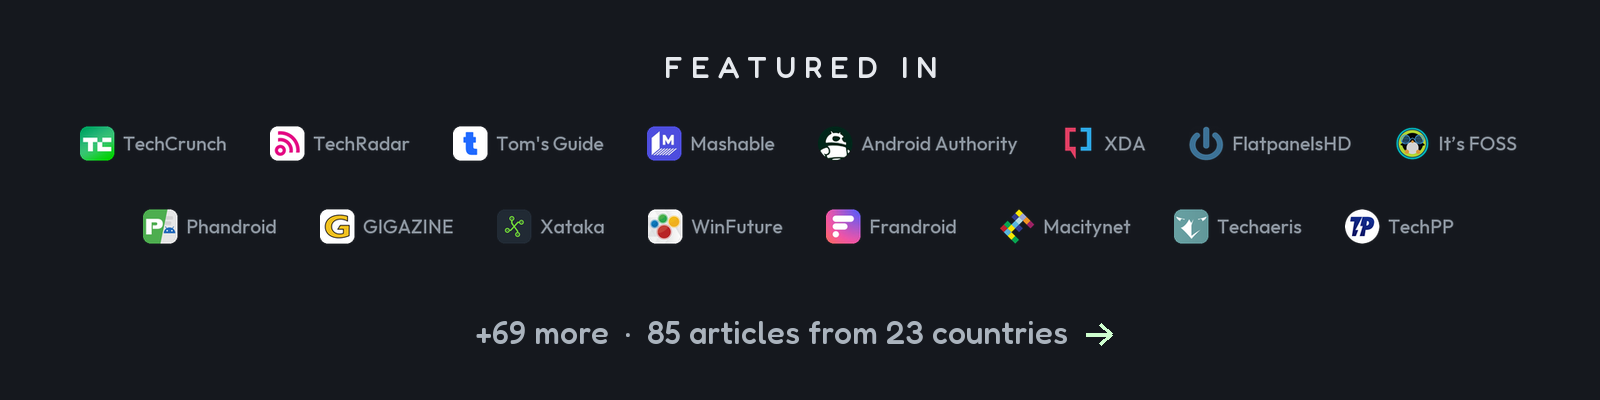
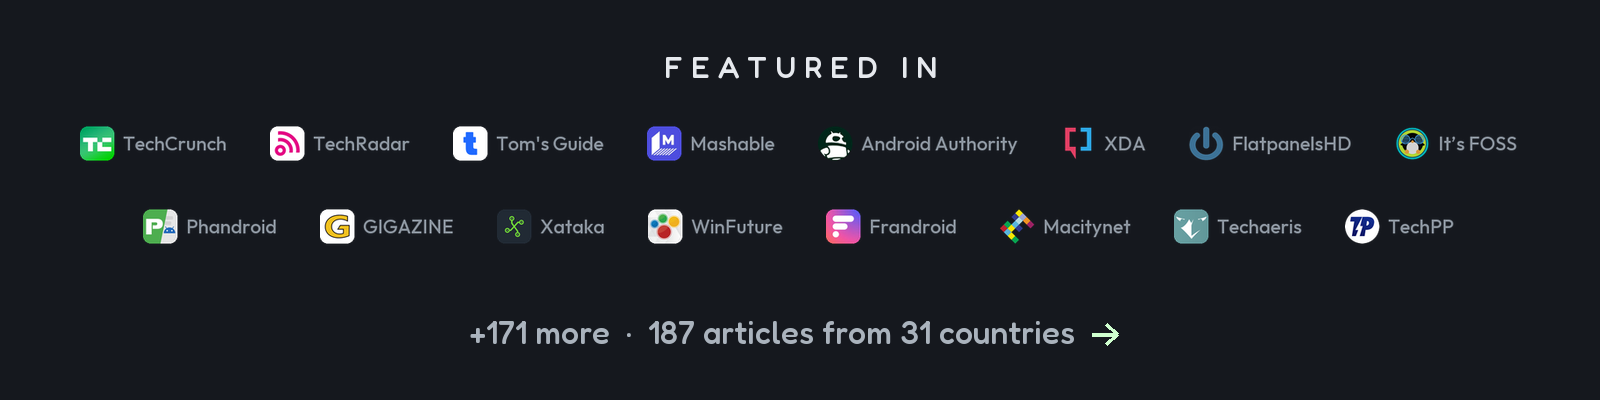
Press: 104 new articles (187 from 31 countries) and a Videos section
A sweep of Google News in 26 locales, GDELT, Bing, Hacker News, Reddit,
dev.to, YouTube and the sites Gathin named, judged page by page: 104
articles not on the list yet, among them Gizmodo, PCWorld, 404 Media,
ExtremeTech, 01net, Clubic, CHIP, Exame, Habr, iXBT and Punto Informatico.
New country sections: Netherlands, Poland, Russia, Belarus, Turkey,
Jordan, South Korea and Australia.

The two YouTube rows move out of the article list into a new Videos
section at the end of PRESS.md: 40 videos that name the project, with
views as of 23 Oct. The press-count test stops at that section.

README alt text, tools/readme_featured.py, docs/featured.png and
docs/card.jpg updated to 187 articles from 31 countries.

Changed region(s): [[0.4062, 0.78, 0.7188, 0.87], [0.2812, 0.81, 0.375, 0.87]]

diff --git a/tools/readme_featured.py b/tools/readme_featured.py
@@ -7,7 +7,7 @@ from PIL import Image, ImageDraw, ImageFont
 FONT, OUT = sys.argv[1], sys.argv[2]
 LOGOS = ["techcrunch", "techradar", "tomsguide", "mashable", "androidauthority", "xda", "flatpanelshd", "itsfoss",
          "phandroid", "gigazine", "xataka", "winfuture", "frandroid", "macitynet", "techaeris", "techpp"]
-MORE = "+69 more  ·  85 articles from 23 countries"
+MORE = "+171 more  ·  187 articles from 31 countries"
 W, LH, GAP, ROWGAP, PAD = 1600, 54, 40, 36, 80
 def f(size, wt):
     x = ImageFont.truetype(FONT, size); x.set_variation_by_axes([wt]); return x

diff --git a/tests/test_press_counts.py b/tests/test_press_counts.py
@@ -25,9 +25,11 @@ TOC_ENTRY = re.compile(r"\[([^\]]+)\]\(#[^)]+\)&nbsp;(\d+)")
 
 
 def sections():
-    """(heading, rows) for every '## ' section, in file order."""
+    """(heading, rows) for every article section, in file order. The Videos section at the end is not articles."""
     out, current = [], None
     for line in PRESS.read_text(encoding="utf-8").split("\n"):
+        if line.strip() == "## Videos":
+            break
         if line.startswith("## "):
             current = (line[3:].strip(), [])
             out.append(current)

diff --git a/docs/PRESS.md b/docs/PRESS.md
@@ -1,10 +1,10 @@
 # CleanYourTV in the press
 
-Every article about CleanYourTV (called tv-vibehack until 19 October 2026) that we could open and check: **85 articles**, 56 of them from outlets in 23 countries, 5 from Spanish-language sites in Latin America and 24 from newsletters, blogs and AI news sites. Headlines are in the language they were published in. Syndicated copies and auto-generated listings are left out.
+Every article about CleanYourTV (called tv-vibehack until 19 October 2026) that we could open and check: **187 articles**, 152 of them from outlets in 31 countries, 9 from Spanish-language sites in Latin America and 26 from newsletters, blogs and AI news sites. Headlines are in the language they were published in. Syndicated copies and auto-generated listings are left out. [40 videos](#videos) follow the articles.
 
 Wrote about it and not here? Open an issue or a pull request with the link.
 
-[United States](#united-states)&nbsp;11 · [United Kingdom](#united-kingdom)&nbsp;2 · [India](#india)&nbsp;2 · [Denmark](#denmark)&nbsp;1 · [Japan](#japan)&nbsp;2 · [Bangladesh](#bangladesh)&nbsp;1 · [United Arab Emirates](#united-arab-emirates)&nbsp;1 · [France](#france)&nbsp;3 · [Germany](#germany)&nbsp;3 · [Spain](#spain)&nbsp;2 · [Italy](#italy)&nbsp;2 · [Norway](#norway)&nbsp;1 · [Portugal](#portugal)&nbsp;1 · [Czechia](#czechia)&nbsp;1 · [Ukraine](#ukraine)&nbsp;1 · [Greece](#greece)&nbsp;1 · [Egypt](#egypt)&nbsp;1 · [Brazil](#brazil)&nbsp;3 · [Latin America (Spanish-language)](#latin-america-spanish-language)&nbsp;5 · [China](#china)&nbsp;7 · [Taiwan](#taiwan)&nbsp;1 · [Indonesia](#indonesia)&nbsp;6 · [Thailand](#thailand)&nbsp;1 · [Vietnam](#vietnam)&nbsp;2 · [Online (newsletters, blogs, AI news)](#online-newsletters-blogs-ai-news)&nbsp;24
+[United States](#united-states)&nbsp;18 · [United Kingdom](#united-kingdom)&nbsp;3 · [India](#india)&nbsp;4 · [Denmark](#denmark)&nbsp;1 · [Japan](#japan)&nbsp;2 · [Bangladesh](#bangladesh)&nbsp;1 · [United Arab Emirates](#united-arab-emirates)&nbsp;1 · [France](#france)&nbsp;12 · [Germany](#germany)&nbsp;5 · [Spain](#spain)&nbsp;6 · [Italy](#italy)&nbsp;14 · [Norway](#norway)&nbsp;1 · [Portugal](#portugal)&nbsp;4 · [Czechia](#czechia)&nbsp;1 · [Ukraine](#ukraine)&nbsp;2 · [Greece](#greece)&nbsp;1 · [Egypt](#egypt)&nbsp;5 · [Brazil](#brazil)&nbsp;11 · [Latin America (Spanish-language)](#latin-america-spanish-language)&nbsp;9 · [China](#china)&nbsp;9 · [Taiwan](#taiwan)&nbsp;4 · [Indonesia](#indonesia)&nbsp;12 · [Thailand](#thailand)&nbsp;3 · [Vietnam](#vietnam)&nbsp;4 · [Netherlands](#netherlands)&nbsp;3 · [Poland](#poland)&nbsp;5 · [Russia](#russia)&nbsp;8 · [Belarus](#belarus)&nbsp;2 · [Turkey](#turkey)&nbsp;3 · [Jordan](#jordan)&nbsp;1 · [South Korea](#south-korea)&nbsp;4 · [Australia](#australia)&nbsp;2 · [Online (newsletters, blogs, AI news)](#online-newsletters-blogs-ai-news)&nbsp;26
 
 ## United States
 
@@ -21,6 +21,13 @@ Wrote about it and not here? Open an issue or a pull request with the link.
 | Gadget Review (on Yahoo Tech) | [Developers Are Using AI to Strip Ads and Tracking From Smart TVs](https://tech.yahoo.com/ai/meta-ai/articles/developers-using-ai-strip-ads-185856468.html) | 19&nbsp;Oct |
 | HighTechDad | [Tech Brief: People Are Using AI Coding Agents to Strip Ads and Tracking Off Their Smart TVs](https://www.hightechdad.com/tech-briefs/people-are-using-ai-coding-agents-to-strip-ads-and-tracking-off-their-smart-tvs/) | 20&nbsp;Oct |
 | Yahoo Tech | [Sick of seeing ads and clutter on your smart TV? The internet says AI can fix that.](https://tech.yahoo.com/ai/article/sick-of-seeing-ads-and-clutter-on-your-smart-tv-the-internet-says-ai-can-fix-that-181417392.html) | 21&nbsp;Oct |
+| GovTech | [Are people using AI to dumb down their smart TVs?](https://www.govtech.com/question-of-the-day/are-people-using-ai-to-dumb-down-their-smart-tvs) | 19&nbsp;Oct |
+| 404 Media | ['Reverse-Engineer Anything' Is the New Wild West of AI](https://www.404media.co/reverse-engineer-anything-is-the-new-wild-west-of-ai/) | 20&nbsp;Oct |
+| Gizmodo | [People Using AI to Make Smart TVs Dumb Again Is the Most 2026 Thing Ever](https://gizmodo.com/people-using-ai-to-make-smart-tvs-dumb-again-is-the-most-2026-thing-ever-2000828213) | 20&nbsp;Oct |
+| Parameter | [AI Coding Tool Helps Thousands Strip Advertising and Surveillance From Android TVs](https://parameter.io/ai-coding-tool-helps-thousands-strip-advertising-and-surveillance-from-android-tvs/) | 21&nbsp;Oct |
+| PCWorld | [Please don't use AI hacks to debloat your TV](https://www.pcworld.com/article/3266473/please-dont-use-ai-hacks-to-debloat-your-tv.html) | 22&nbsp;Oct |
+| ExtremeTech | [Developers Are Dumbing Down Their Smart TVs](https://www.extremetech.com/electronics/developers-are-dumbing-down-their-smart-tvs) | 21&nbsp;Oct |
+| AdExchanger | [So Begins ChatGPT’s Endless Ad Iterations; YouTube Affiliates With AliExpress](https://www.adexchanger.com/daily-news-roundup/tuesday-20102026/) | 20&nbsp;Oct |
 
 ## United Kingdom
 
@@ -28,6 +35,7 @@ Wrote about it and not here? Open an issue or a pull request with the link.
 | --- | --- | --- |
 | TechRadar | [‘Your TV should do what you paid for’: People are so sick of ads, trackers and bloat in their smart TVs that they're using AI to vibe code them away](https://www.techradar.com/entertainment/streaming/your-tv-should-do-what-you-paid-for-people-are-vibe-coding-apps-to-banish-ads-from-their-smart-tvs-and-android-tv-and-its-catching-on) | 20&nbsp;Oct |
 | Tech Times | [Man Asks AI with a Simple Prompt 'Can You Hack This?' to Fix His TV: Now Everyone Wants to Copy Him](https://www.techtimes.co.uk/ai-smart-tv-bloatware-performance-fix-1809233) | 19&nbsp;Oct |
+| Tech Times | [Owners Are Using AI to Bring Abandoned Smart Devices Back to Life and Strip Out Ads](https://www.techtimes.co.uk/ai-tools-remove-smart-tv-ads-bloatware-1809318) | 22&nbsp;Oct |
 
 ## India
 
@@ -35,6 +43,8 @@ Wrote about it and not here? Open an issue or a pull request with the link.
 | --- | --- | --- |
 | It's FOSS | [People Are Using AI to Get Rid of Smart TV Ads and Make Their TVs Faster](https://itsfoss.com/news/debloat-smart-tv/) | 19&nbsp;Oct |
 | TechPP | [How I Made My Android TV Faster and Ad-Free Using Claude Code](https://techpp.com/2026/10/18/speed-up-android-tv-claude-code/) | 18&nbsp;Oct |
+| SSBCrack News | [DIY Hacks Allow Consumers to "Vibe-Code" Their Smart TVs, Eliminating Ads and Bloatware](https://news.ssbcrack.com/diy-hacks-allow-consumers-to-vibe-code-their-smart-tvs-eliminating-ads-and-bloatware/) | 19&nbsp;Oct |
+| Analytics Insight | [How AI Tools Can Make Old Smart TVs Faster](https://www.analyticsinsight.net/ampstories/artificial-intelligence/how-ai-tools-can-make-old-smart-tvs-faster) | 21&nbsp;Oct |
 
 ## Denmark
 
@@ -68,6 +78,15 @@ Wrote about it and not here? Open an issue or a pull request with the link.
 | Frandroid | [Fini la lenteur et les pubs : j’ai redonné une seconde jeunesse à ma Google TV en 10 minutes](https://www.frandroid.com/android/google-tv/3290159_google-tv-lent-et-envahi-par-les-pubs-le-projet-tv-vibehack-corrige-tout-ca-grace-a-lia-jai-tente-lexperience) | 18&nbsp;Oct |
 | Les Joies du Code | [Après l'imprimante et le Wi-Fi, des devs lâchent Claude Code sur leur télé pour virer les pubs](https://lesjoiesducode.fr/retirer-pub-android-tv-claude-code) | 20&nbsp;Oct |
 | Xboxygen | [Sa TV Xiaomi affichait des pubs partout : il donne son modèle à Claude Code, qui refait toute l'interface](https://www.xboxygen.com/News/371393-sa-tv-xiaomi-affichait-des-pubs-partout-il-donne-son-modele-a-claude-code-qui-refait-toute-linterface) | 19&nbsp;Oct |
+| Clubic | [Votre Smart TV est devenue un panneau publicitaire ? Des utilisateurs demandent à l'IA de faire le ménage](https://www.clubic.com/actualite-635203-votre-smart-tv-est-devenue-un-panneau-publicitaire-des-utilisateurs-demandent-a-l-ia-de-faire-le-menage.html) | 21&nbsp;Oct |
+| Frandroid | [Finies les pubs et la lenteur sur Samsung et LG : l'IA débride également webOS et Tizen](https://www.frandroid.com/produits-android/tv-connectee-produits/3291785_apres-google-tv-les-tv-samsung-et-lg-se-font-debrider-a-laide-de-lia-un-vent-de-liberte-qui-nest-pas-sans-risques-pour-la-securite) | 20&nbsp;Oct |
+| Univers Freebox | [Une nouvelle tendance émerge : pirater sa propre Smart TV avec de l'IA](https://www.universfreebox.com/article/598607/une-nouvelle-tendance-emerge-pirater-sa-propre-smart-tv-avec-de-lia) | 20&nbsp;Oct |
+| Brief IA | [Des agents IA retirent les pubs des smart TVs et fragilisent leur modèle](https://www.briefia.fr/blog/pourquoi-ia-transformer-publicite-smart-tvs) | 19&nbsp;Oct |
+| Generation-NT | [L'IA aide certains utilisateurs à supprimer la publicité de leur téléviseur connecté](https://www.generation-nt.com/actualites/utilisateurs-nettoient-televiseurs-connectes-ia-2083105) | 21&nbsp;Oct |
+| 01net | [Au revoir les pubs et les lenteurs sur votre TV : comment l'IA peut faire le ménager en quelques minutes](https://www.01net.com/actualites/au-revoir-les-pubs-et-les-lenteurs-sur-votre-tv-comment-lia-peut-faire-le-menage-en-quelques-minutes.html) | 20&nbsp;Oct |
+| Charles Tech | [Leur TV était intelligente, ils utilisent l'IA pour la rendre bête](https://charlestech.fr/tv-etait-intelligente-ils-utilisent-l-ia-rendre-bete) | 20&nbsp;Oct |
+| MCE TV | [Google TV : il supprime pubs et lenteur de son téléviseur en 10 minutes grâce à l'IA](https://mcetv.ouest-france.fr/2026/google-tv-supprimer-pubs-lenteur-ia/) | 20&nbsp;Oct |
+| Brief IA | [IA contre pubs : des hacks allègent les smart TVs](https://www.briefia.fr/article/ia-contre-pubs-des-hacks-allegent-les-smart-tvs) | 19&nbsp;Oct |
 
 ## Germany
 
@@ -76,6 +95,8 @@ Wrote about it and not here? Open an issue or a pull request with the link.
 | WinFuture | [KIs machen Smart-TVs dumm, um Werbung und Tracking loszuwerden](https://winfuture.de/news,162070.html) | 20&nbsp;Oct |
 | Clauding.de | [dumbtv and cleanyourtv: People Are Stripping Their TVs With Claude Code](https://clauding.de/en/posts/smart-tv-entruempeln-claude-code/) | 20&nbsp;Oct |
 | Bild | [Smart-TV: Warum Nutzer ihre Fernseher mit KI verändern](https://www.bild.de/leben-wissen/digital/smart-tv-warum-nutzer-ihre-fernseher-mit-ki-veraendern-6ad89038842f9bd88130aa9e) | 21&nbsp;Oct |
+| CHIP | [KI-Tools sollen Smart-TVs von Werbung und Tracking befreien](https://www.chip.de/news/tv-streaming-sound/ki-tools-sollen-smart-tvs-von-werbung-und-tracking-befreien_0355ef2d-6c6a-403d-81d9-c9d6e85d1cdc.html) | 22&nbsp;Oct |
+| 4K Filme | [Nutzer befreit Smart-TV mit KI von Werbung und wird dafür gefeiert](https://www.4kfilme.de/nutzer-befreit-smart-tv-mit-ki-von-werbund-und-wird-gefeiert/) | 21&nbsp;Oct |
 
 ## Spain
 
@@ -83,6 +104,10 @@ Wrote about it and not here? Open an issue or a pull request with the link.
 | --- | --- | --- |
 | Xataka | [La última sensación viral de la IA es eliminar anuncios y bloatware de las Smart TV: he "tontificado" mi Chromecast y es maravilloso](https://www.xataka.com/televisores/ultima-sensacion-viral-ia-eliminar-anuncios-bloatware-smart-tv-he-tontificado-mi-chromecast-maravilloso) | 20&nbsp;Oct |
 | Xataka Hogar | [Las interfaces de las smart TV se han convertido en un tablón de anuncios, así que los usuarios están buscando cómo escapar de ellas](https://hogar.xataka.com/televisores/interfaces-smart-tv-se-han-convertido-tablon-anuncios-asi-que-usuarios-estan-buscando-como-escapar-ellas) | 19&nbsp;Oct |
+| Androidphoria | [CleanYourTV: elimina anuncios y acelera tu Android TV con IA](https://androidphoria.com/aplicaciones/cleanyourtv) | 20&nbsp;Oct |
+| ZonaDock | [Claude Code contra los anuncios de las Smart TV y los riesgos de recuperar el control](https://www.zonadock.com/2026/10/20/claude-code-contra-los-anuncios-de-las-smart-tv-y-los-riesgos-de-recuperar-el-control/) | 20&nbsp;Oct |
+| Androidsis | [La IA se cuela en la Smart TV para quitar anuncios y bloatware](https://www.androidsis.com/la-ia-se-cuela-en-la-smart-tv-para-quitar-anuncios-y-bloatware/) | 21&nbsp;Oct |
+| FomoEra | [Desarrolladores usan IA para quitar anuncios de sus smart TVs](https://fomoera.com/ia-anuncios-smart-tv/) | 19&nbsp;Oct |
 
 ## Italy
 
@@ -90,6 +115,18 @@ Wrote about it and not here? Open an issue or a pull request with the link.
 | --- | --- | --- |
 | la Repubblica | [Smart tv, l'IA usata per disattivare pubblicità e tracciamento](https://www.repubblica.it/tecnologia/2026/10/20/news/smart_tv_l_ia_usata_per_disattivare_pubblicita_e_tracciamento-425660075/) | 20&nbsp;Oct |
 | Macitynet | [La smart TV è lenta e piena di pubblicità? C’è chi usa l’AI per ripulirla](https://www.macitynet.it/rendere-le-tv-meno-smart/) | 20&nbsp;Oct |
+| Everyeye Tech | [Stufi di annunci e tracciamento: gli utenti usano l'IA per ripulire le Smart TV da tutto il bloatware](https://tech.everyeye.it/notizie/stufi-annunci-tracciamento-utenti-usano-ia-ripulire-smart-tv-bloatware-907477.html) | 22&nbsp;Oct |
+| Pasquale Pillitteri | [Togli la pubblicità dalla smart TV con Claude Code, arriva cleanyourtv](https://pasqualepillitteri.it/news/25806/togli-pubblicita-smart-tv-claude-code-cleanyourtv) | 20&nbsp;Oct |
+| Techprincess | [Come eliminare le pubblicità dalle Smart TV usando l'AI](https://techprincess.it/smart-tv-ai-rimuovere-pubblicita-app-inutili/) | 20&nbsp;Oct |
+| Punto Informatico | [Claude rimuove le inserzioni e velocizza la smart TV](https://www.punto-informatico.it/claude-rimuove-inserzioni-velocizza-smart-tv/) | 20&nbsp;Oct |
+| TuttoAndroid | [Hackerare la smart TV con l'AI per eliminare pubblicità e app preinstallate](https://www.tuttoandroid.net/news/2026/10/20/hackerare-smart-tv-ai-eliminare-pubblicita-app-1178472/) | 20&nbsp;Oct |
+| TecnoAndroid | [Smart TV senza pubblicità: Claude Code elimina il bloatware](https://www.tecnoandroid.it/news/smart-tv-senza-pubblicita-claude-code-elimina-il-bloatware-1998676/) | 21&nbsp;Oct |
+| Blasting News | [L'AI rende le smart TV 'stupide': via pubblicità e bloatware indesiderato](https://it.blastingnews.com/tecnologia/2026/10/lai-rende-le-smart-tv-stupide-via-pubblicita-e-bloatware-indesiderato-004190995.html) | 19&nbsp;Oct |
+| QuiQuotidiano | [L'IA ha disattivato 25 programmi su una Smart TV: perché il risultato sorprende](https://www.quiquotidiano.it/2026/10/22/lia-ha-disattivato-25-programmi-su-una-smart-tv-perche-il-risultato-sorprende/) | 22&nbsp;Oct |
+| ZEUS News | [Claude ripulisce le smart TV: meno pubblicità, più velocità e maggiore controllo per gli utenti](https://www.zeusnews.it/news.php?cod=32621) | 20&nbsp;Oct |
+| Melablog | [Con il "coding delle vibrazioni" puoi eliminare la pubblicità dalla tua smart TV](https://www.melablog.it/con-il-coding-delle-vibrazioni-puoi-eliminare-la-pubblicita-dalla-tua-smart-tv/) | 22&nbsp;Oct |
+| Open | [L'AI può togliere le pubblicità dalle smart tv e modificare i software: come funziona la rivoluzione degli hacker fai-da-te](https://www.open.online/2026/10/22/ai-pubblicita-smart-tv-modificare-software-hacker/) | 22&nbsp;Oct |
+| SmartWorld | [L'AI sta liberando le smart TV da pubblicità e tracciamento: ecco come funzionano gli script che le riportano a TV semplici](https://www.smartworld.it/news/smart-tv-senza-pubblicita-tracciamento-script-ai-adb.html) | 20&nbsp;Oct |
 
 ## Norway
 
@@ -102,6 +139,9 @@ Wrote about it and not here? Open an issue or a pull request with the link.
 | Outlet | Article | Date |
 | --- | --- | --- |
 | Pplware | [Nem as Smart TV escaparam à febre do vibe coding](https://pplware.sapo.pt/inteligencia-artificial/nem-as-smart-tv-escaparam-a-febre-do-vibe-coding-a-televisao-a-medida-de-cada-utilizador/) | 19&nbsp;Oct |
+| TechBit | [Fartou-se dos anúncios na TV dos pais, pediu ao Claude Code para limpar e milhares já copiam](https://techbit.pt/fartou-anuncios-tv-pais-pediu-claude-code-limpar/) | 21&nbsp;Oct |
+| 4gnews | [Estas ferramentas de IA prometem acabar com os anúncios das Smart TVs](https://4gnews.pt/estas-ferramentas-de-ia-prometem-acabar-com-os-anuncios-das-smart-tvs/) | 21&nbsp;Oct |
+| TugaTech | [Utilizadores estão a usar IA para tornar as suas Smart TVs mais "estúpidas" e remover publicidade](https://tugatech.com.pt/t92999-utilizadores-estao-a-usar-ia-para-tornar-as-suas-smart-tvs-mais-estupidas-e-remover-publicidade) | – |
 
 ## Czechia
 
@@ -114,6 +154,7 @@ Wrote about it and not here? Open an issue or a pull request with the link.
 | Outlet | Article | Date |
 | --- | --- | --- |
 | Mediasat | [Smart TV owners turn to Claude Code to remove ads](https://mediasat.info/en/2026/10/20/smart-tv-owners-turn-to-claude-code-to-remove-ads/) | 20&nbsp;Oct |
+| Межа (Mezha) | [Проєкти з використанням ШІ допомагають прибирати рекламу й трекери зі смарттелевізорів](https://mezha.net/ua/news/mezha-af9669c2926dde16a80b745c_proiekti_z_vikoristannyam/) | 20&nbsp;Oct |
 
 ## Greece
 
@@ -126,6 +167,10 @@ Wrote about it and not here? Open an issue or a pull request with the link.
 | Outlet | Article | Date |
 | --- | --- | --- |
 | Mogaz | [Developers use AI to strip ads and tracking from smart TVs](https://www.mogazmasr.com/151088) | 19&nbsp;Oct |
+| Khabar Agency (وكالة خبر) | [ثورة برمجية: الذكاء الاصطناعي يمنحك السيطرة الكاملة على واجهة تلفازك الذكي](https://www.khabaragency.net/news254676.html) | 22&nbsp;Oct |
+| Youm7 (اليوم السابع) | [الذكاء الاصطناعي يساعد المستخدمين على حذف إعلانات التلفزيون الذكية](https://www.youm7.com/story/2026/10/22/الذكاء-الاصطناعي-يساعد-المستخدمين-على-حذف-إعلانات-التلفزيون-الذكية/7586888) | 22&nbsp;Oct |
+| Sada El Balad (صدى البلد) | [وداعاً للإعلانات المزعجة.. الذكاء الاصطناعي يطهر شاشات التلفزيون الذكية](https://www.elbalad.news/7149578) | 21&nbsp;Oct |
+| Fintechgate | [الذكاء الاصطناعي يحوّل أجهزة التلفزيون الذكية إلى شاشات خالية من الإعلانات والتجسس](https://www.fintechgate.net/254958) | 19&nbsp;Oct |
 
 ## Brazil
 
@@ -134,6 +179,14 @@ Wrote about it and not here? Open an issue or a pull request with the link.
 | Save State | [Dev usa Claude Code para tirar anúncios da TV dos pais](https://savestate.com.br/claude-code-android-tv-anuncios/) | 19&nbsp;Oct |
 | GD / Eurisko | [Usuários hackeiam Android TV e Google TV com ajuda do Claude Code](https://gd.eurisko.com.br/2026/10/19/usuarios-hackeiam-android-tv-e-google-tv-com-ajuda-do-claude-code) | 19&nbsp;Oct |
 | AJN1 | [Usuários recorrem à inteligência artificial para remoção de anúncios e modificações de interfaces de TVs](https://ajn1.com.br/usuarios-recorrem-a-inteligencia-artificial-para-remocao-de-anuncios-e-modificacoes-de-interfaces-de-tvs/) | 19&nbsp;Oct |
+| Época NEGÓCIOS | [Cansados de anúncios, usuários recorrem à IA para deixar smart TVs 'burras' de novo](https://epocanegocios.globo.com/inteligencia-artificial/noticia/2026/10/cansados-de-anuncios-usuarios-recorrem-a-ia-para-deixar-smart-tvs-burras-de-novo.ghtml) | 20&nbsp;Oct |
+| Exame | [Smart TVs sob medida: usuários usam IA para criar telas e funções próprias para televisores antigos](https://exame.com/inteligencia-artificial/smart-tvs-sob-medida-usuarios-usam-ia-para-criar-telas-e-funcoes-proprias-para-televisores-antigos/) | 19&nbsp;Oct |
+| Mix Vale | [Inteligência artificial desativa anúncios, rastreadores e muda interfaces em smart TVs com sistema Android](https://www.mixvale.com.br/2026/10/20/inteligencia-artificial-desativa-anuncios-rastreadores-e-muda-interfaces-em-smart-tvs-com-sistema-android/) | 20&nbsp;Oct |
+| Agora Litoral | [Usuários burlam sistema de smart TVs com inteligência artificial](https://agoralitoral.com.br/2026/10/19/usuarios-burlam-sistema-de-smart-tvs-com-inteligencia-artificial/) | 19&nbsp;Oct |
+| Mix Vale | [Usuários usam o agente de IA Claude Code para limpar Smart TVs](https://www.mixvale.com.br/2026/10/21/usuarios-usam-o-agente-de-ia-claude-code-para-limpar-smart-tvs/) | 21&nbsp;Oct |
+| Showmetech | [TV vibecoding: usuários estão usando IA para remover anúncios e apps de suas smart TVs](https://www.showmetech.com.br/ia-remover-anuncios-smart-tvs-vibe-coding/) | 20&nbsp;Oct |
+| SpaceMoney | [Usuários recorrem a IA para enxugar smart TVs Android](https://www.spacemoney.com.br/tecnologia/ia-smart-tvs-android/) | 20&nbsp;Oct |
+| Boa Informação | [As pessoas estão usando IA para tornar suas smart TVs burras novamente](https://boainformacao.com.br/2026/10/as-pessoas-estao-usando-ia-para-tornar-suas-smart-tvs-burras-novamente/) | 19&nbsp;Oct |
 
 ## Latin America (Spanish-language)
 
@@ -144,6 +197,10 @@ Wrote about it and not here? Open an issue or a pull request with the link.
 | Ecosistema Startup | [dumbtv: el hack con IA que elimina los anuncios del TV](https://ecosistemastartup.com/dumbtv-el-hack-con-ia-que-elimina-los-anuncios-del-tv/) | 19&nbsp;Oct |
 | TecToc | [Usuarios están usando IA para quitar anuncios y «limpiar» sus Smart TV](https://tectoc.blog/2026/10/19/usuarios-estan-usando-ia-para-quitar-anuncios-y-limpiar-sus-smart-tv/) | 19&nbsp;Oct |
 | Tecnobits | [Cómo hacer debloat a tu Smart TV con IA y CleanYourTV](https://tecnobits.net/como-hacer-debloat-a-tu-smart-tv-con-ia-cleanyourtv/) | 21&nbsp;Oct |
+| The Clinic | [La nueva moda de "hackear" Smart TV con inteligencia artificial: usuarios logran eliminar anuncios y aplicaciones de rastreo](https://www.theclinic.cl/2026/10/21/hackear-televisores-ia-eliminar-anuncios/) | 21&nbsp;Oct |
+| Cadena 3 | [El auge de los hacks de IA para convertir televisores inteligentes en modelos simples](https://www.cadena3.com/noticia/tecnologia/el-auge-de-los-hacks-de-ia-para-convertir-televisores-inteligentes-en-modelos-simples_604870) | 19&nbsp;Oct |
+| OneDigital | [CleanYourTV limpia tu Android TV de publicidad con IA](https://onedigital.mx/2026/10/21/cleanyourtv-limpiar-android-tv/) | 21&nbsp;Oct |
+| ENTER.CO | [¿Cómo volver 'tonto' tu smart TV con IA para quitarle los anuncios?](https://www.enter.co/chips-bits/como-volver-tonto-smart-tv-ia-anuncios/) | 21&nbsp;Oct |
 
 ## China
 
@@ -156,12 +213,17 @@ Wrote about it and not here? Open an issue or a pull request with the link.
 | AI工具集 ai-bot.cn | [CleanYourTV – 开源的电视广告去除工具，垃圾软件全清空](https://ai-bot.cn/cleanyourtv/) | 20&nbsp;Oct |
 | OCTOHZ | [CleanYourTV - 安卓电视去广告神器](https://octohz.com/p/2338) | – |
 | AI产品库 AIProductHub | [CleanYourTV - 开源电视去广告启动器，一键替换桌面](https://aiproducthub.cn/launch/p/70162.html) | 20&nbsp;Oct |
+| 搜狐 Sohu | [安卓 TV 去广告开源工具走红，电视厂商广告收入承压](https://timeline.sohu.com/news/OD888PpI4v) | – |
+| 流媒体网 lmtw | [电视厂商的财路，被开源软件断了](https://lmtw.com/mzw/content/detail/id/259307) | – |
 
 ## Taiwan
 
 | Outlet | Article | Date |
 | --- | --- | --- |
 | 媒角抵加News (yam.com) | [開發者用AI清理智慧電視，公開去廣告工具與復原限制](https://n.yam.com/Article/20261020173220) | 20&nbsp;Oct |
+| BlockTempo 動區動趨 | [用 AI 幫電視去廣告＆追蹤專案爆紅：哪些智慧電視做得到、風險在哪？](https://www.blocktempo.com/claude-code-dumbtv-cleanyourtv-smart-tv-ads-tracking-acr-business/) | 20&nbsp;Oct |
+| LIFE 生活網 (life.tw) | [厭煩廣告追蹤 用戶利用AI工具讓智慧電視「變笨」](https://life.tw/article/厭煩廣告追蹤-用戶利用ai工具讓智慧電視-變笨-3186363) | 20&nbsp;Oct |
+| TechNews 科技新報 | [Vibe Coding 改造家中智慧電視，移除廣告與臃腫軟體](https://technews.tw/2026/10/21/dumbing-down-smart-tvs-to-eliminate-unnecessary-features/) | 21&nbsp;Oct |
 
 ## Indonesia
 
@@ -173,12 +235,20 @@ Wrote about it and not here? Open an issue or a pull request with the link.
 | BSI News | [Developer Ubah Antarmuka TV Xiaomi dengan Bantuan AI](https://bsinews.id/developer-modifikasi-tv-xiaomi-ai) | 19&nbsp;Oct |
 | Suara Independent News | [Developer Ubah Smart TV Xiaomi Jadi Mirip Apple TV dengan AI](https://www.suaraindependentnews.id/developer-modifikasi-tv-xiaomi-ai) | 19&nbsp;Oct |
 | Twasl News | [Developer Ubah Smart TV Xiaomi Bebas Iklan dengan Bantuan AI](https://twaslnews1.twaslnews.com/6197597/) | 19&nbsp;Oct |
+| SuaraGarut.ID | [Developer Gunakan AI untuk Hapus Iklan TV Xiaomi](https://suaragarut.id/developer-ai-hapus-iklan-tv-xiaomi) | 19&nbsp;Oct |
+| Demokratis.co.id | [Developer Ubah TV Xiaomi Jadi Mirip Apple TV dengan Bantuan AI](https://demokratis.co.id/developer-ubah-tv-xiaomi-jadi-mirip-apple-tv-dengan-bantuan-ai) | 19&nbsp;Oct |
+| Cirebon Times | [Developer Ubah Smart TV Xiaomi Jadi Minimalis Tanpa Iklan](https://www.cirebontimes.com/developer-modifikasi-smart-tv-xiaomi) | 19&nbsp;Oct |
+| Telset.id | [Pengguna Smart TV Pakai AI Vibe Coding untuk Bersihkan Iklan dan Bloatware](https://telset.id/laptop-pc/pengguna-smart-tv-pakai-ai-vibe-coding-untuk-bersihkan-iklan-dan-bloatware) | 21&nbsp;Oct |
+| Cirebon Times | [Developer Ubah TV Xiaomi Jadi Mirip Apple TV dengan AI](https://www.cirebontimes.com/developer-modifikasi-tv-xiaomi-ai) | 19&nbsp;Oct |
+| Limapagi | [Gathin Ubah Smart TV Xiaomi Jadi Mirip Apple TV dengan AI](https://www.limapagi.id/gathin-modifikasi-xiaomi-ai) | 19&nbsp;Oct |
 
 ## Thailand
 
 | Outlet | Article | Date |
 | --- | --- | --- |
 | iPhoneMod | [Clean Your TV ชุบชีวิต Android TV สไตล์ Apple TV ลื่นตาไร้โฆษณา](https://www.iphonemod.net/clean-your-tv-android-tv-debloat-launcher.html) | 19&nbsp;Oct |
+| BT beartai | [คนเริ่มใช้ AI แต่ง Smart TV ใหม่ ตัดโฆษณาออก เหลือแค่ฟีเจอร์ที่ใช้จริง](https://www.beartai.com/read/1510948/) | 21&nbsp;Oct |
+| Thisisgame Thailand | [ผู้ใช้นำ AI มาย้อนเวลาปลดโฆษณา เปลี่ยน Smart TV ให้กลับมาทำงานได้ดีอีกครั้ง](https://thisisgamethailand.com/technology/users-mods-smart-tv-ads-with-ai/) | 20&nbsp;Oct |
 
 ## Vietnam
 
@@ -186,6 +256,76 @@ Wrote about it and not here? Open an issue or a pull request with the link.
 | --- | --- | --- |
 | VnExpress | [Dùng AI 'độ' giao diện smart TV](https://vnexpress.net/dung-ai-do-giao-dien-smart-tv-5134574.html) | 20&nbsp;Oct |
 | Znews (Tri Thức) | [Dùng Claude để 'giải cứu' TV cũ](https://tech.zingnews.vn/dung-claude-de-giai-cuu-tv-cu-post1691091.html) | 22&nbsp;Oct |
+| LAG | [Các nhà phát triển dùng AI để loại bỏ quảng cáo và theo dõi trên Smart TV](https://lag.vn/tin/cong-nghe/cac-nha-phat-trien-dung-ai-de-loai-bo-quang-cao-va-theo-doi-tren-smart-tv.html) | 20&nbsp;Oct |
+| VnReview | [Trào lưu dùng AI "hồi sinh" TV cũ vừa chậm vừa lag](https://vnreview.vn/threads/trao-luu-dung-ai-hoi-sinh-tv-cu-vua-cham-vua-lag.93637/) | 22&nbsp;Oct |
+
+## Netherlands
+
+| Outlet | Article | Date |
+| --- | --- | --- |
+| AI Wereld | [AI maakt je TV schoon met CleanYourTV](https://aiwereld.nl/nieuws/ai-maakt-je-tv-schoon-met-cleanyourtv) | 21&nbsp;Oct |
+| AI Wereld | [Goedemorgen AI: een game in drie uur en ChatGPT in het restaurant](https://aiwereld.nl/nieuws/goedemorgen-ai-een-game-in-drie-uur-en-chatgpt-in-het-restaurant) | 21&nbsp;Oct |
+| Bright | [Slimmeriken gebruiken AI om hun smart-tv juist dom te maken](https://www.bright.nl/nieuws/2148884/slimmeriken-gebruiken-ai-om-hun-smart-tv-juist-dom-te-maken.html) | 20&nbsp;Oct |
+
+## Poland
+
+| Outlet | Article | Date |
+| --- | --- | --- |
+| GRY-Online.pl | [„Telewizor powinien robić to, za co zapłaciłeś”. AI pomaga ludziom usuwać reklamy i telemetrię ze Smart TV](https://www.gry-online.pl/newsroom/telewizor-powinien-robic-to-za-co-zaplaciles-ai-pomaga-ludziom-us/zc32016) | 20&nbsp;Oct |
+| Antyweb | [Masz Smart TV? AI pomoże usunąć reklamy z ekranu głównego](https://antyweb.pl/masz-smart-tv-ai-pomoze-usunac-reklamy-z-ekranu-glownego) | 22&nbsp;Oct |
+| PurePC.pl | [Agenty AI pomagają usuwać bloatware z Google TV i Fire TV. Sprawdzamy możliwości projektów cleanyourtv i dumbtv](https://www.purepc.pl/ai-claude-code-smart-tv-reklamy-acr-cleanyourtv-dumbtv) | 20&nbsp;Oct |
+| rtvManiaK.pl | [Koniec reklam na telewizorach. Tak działa AI!](https://www.rtvmaniak.pl/9743107/koniec-reklam-na-telewizorach-tak-dziala-ai/) | 21&nbsp;Oct |
+| Bezprawnik | [Hakowanie telewizorów przez AI. Apple TV za 1499 zł traci sens?](https://bezprawnik.pl/hakowanie-telewizorow-ai/) | 19&nbsp;Oct |
+
+## Russia
+
+| Outlet | Article | Date |
+| --- | --- | --- |
+| 3DNews | [Владельцы умных телевизоров обратились к ИИ, чтобы сделать их «глупыми»](https://3dnews.ru/1150182/vladeltsi-umnih-televizorov-obratilis-k-ii-chtobi-sdelat-ih-glupimi) | 20&nbsp;Oct |
+| Hi-Fi.ru | [Владельцы умных телевизоров стали использовать ИИ для отключения рекламы и…](https://www.hi-fi.ru/news/video/detail/vladelcy-umnyh-televizoro/) | 22&nbsp;Oct |
+| Код.ру | [Пользователи начали отключать слежку и удалять рекламу на умных телевизорах с помощью ИИ](https://kod.ru/people-are-using-ai-smart-tvs-dumb) | 20&nbsp;Oct |
+| Hardwareluxx Russia | [ИИ-агенты помогают очистить Smart TV от рекламы и слежки](https://www.hardwareluxx.ru/index.php/news/consumer-electronics/gadgets/60549-ii-agenty-pomogayut-ochistit-smart-tv-ot-reklamy-i-slezhki.html) | 20&nbsp;Oct |
+| Runet | [DeepSeek и Claude сделали приложения, которые убирают с телевизоров рекламу и ненужные приложения](https://runet.news/news/84747) | 20&nbsp;Oct |
+| PlayGround.ru | [Энтузиасты начали использовать ИИ для очистки телевизоров от встроенной рекламы и замедляющего софта](https://www.playground.ru/misc/news/entuziasty_nachali_ispolzovat_ii_dlya_ochistki_televizorov_ot_vstroennoj_reklamy_i_zamedlyayuschego_softa-1883066) | 19&nbsp;Oct |
+| iXBT.com | [Полезный вайбкодинг: DeepSeek и Claude сделали приложения, которые убирают с телевизоров рекламу и ненужные приложения](https://www.ixbt.com/news/2026/10/20/poleznyi-vaibkoding-deepseek-i-claude-sdelali-prilozeniia-kotorye-ubiraiut-s-televizorov-reklamu-i-nenuznye-prilozeniia.html) | 20&nbsp;Oct |
+| Habr | [Представлен открытый вайбкод-проект TV VibeHac для убирания лагов на умных ТВ из-за мусорных приложений](https://habr.com/ru/posts/1095896/) | 18&nbsp;Oct |
+
+## Belarus
+
+| Outlet | Article | Date |
+| --- | --- | --- |
+| Onlíner | [Юзеры научились отключать рекламу и «слежку» на смарт-телевизорах. Помог ИИ](https://tech.onliner.by/2026/10/20/kak-uluchshit-televizor-s-pomoshhyu-ii) | 20&nbsp;Oct |
+| dev.by | [Разрабы делают телевизоры «тупыми», чтобы избавиться от рекламы и слежки](https://devby.io/news/razraby-delaut-televizory-tupymi-chtoby-izbavitsya-ot-reklamy-i-slezhki) | 20&nbsp;Oct |
+
+## Turkey
+
+| Outlet | Article | Date |
+| --- | --- | --- |
+| Technotoday | [Akıllı Televizyonlar Yapay Zeka Sayesinde Daha da Akıllanıyor](https://technotoday.com.tr/akilli-televizyonlar-yapay-zeka-sayesinde-daha-da-akillaniyor/) | 20&nbsp;Oct |
+| CHIP Online | [Yapay zekaya bu kez ters görev: Televizyondaki reklam fazlalıklarını kaldır](https://www.chip.com.tr/guncel/yapay-zekaya-bu-kez-ters-gorev-televizyondaki-reklam-fazlaliklarini-kaldir_184766.html) | 20&nbsp;Oct |
+| Digital Age | [Akıllı televizyonları "aptallaştırma" akımı başladı](https://digitalage.com.tr/akilli-televizyonlari-aptallastirma-akimi-basladi/) | 21&nbsp;Oct |
+
+## Jordan
+
+| Outlet | Article | Date |
+| --- | --- | --- |
+| Jordan News | [Users are simplifying their smart TVs with AI](https://www.jordannews.jo/Section-101/Good-Food/Users-are-simplifying-their-smart-TVs-with-AI-57693) | 20&nbsp;Oct |
+
+## South Korea
+
+| Outlet | Article | Date |
+| --- | --- | --- |
+| AI타임스 (AI Times) | ["느려진 TV, 클로드에게 맡겨볼까"…광고 덜고 속도 높이는 AI 활용법](https://www.aitimes.com/news/articleView.html?idxno=216547) | 22&nbsp;Oct |
+| AI포스트 (AIPOST) | [스마트TV 홈 화면 갈아엎는 '바이브 코딩' 기법 화제…"스폰서 광고·시청 추적에 질렸다"](https://www.aipostkorea.com/news/articleView.html?idxno=13025) | 20&nbsp;Oct |
+| 위키트리 (WikiTree) | [스마트TV 광고 떼는 클로드 코드 열풍…조회 620만 속 벽돌 된 TV도 나왔다](https://www.wikitree.co.kr/articles/1168141) | 21&nbsp;Oct |
+| 위키트리 (WikiTree) | [클로드 코드로 TCL 구글TV 앱 25개를 껐더니 메모리 192MB가 83MB로 줄었다](https://www.wikitree.co.kr/articles/1167807) | 21&nbsp;Oct |
+
+## Australia
+
+| Outlet | Article | Date |
+| --- | --- | --- |
+| ChannelNews | [Fed Up With Smart TV Ads? Users Are Turning To AI To Fight Back](https://www.channelnews.com.au/fed-up-with-smart-tv-ads-users-are-turning-to-ai-to-fight-back/) | 22&nbsp;Oct |
+| techAU | [People are using AI to rewrite their smart TV software in 15 minutes and remove all the bloatware](https://techau.com.au/people-are-using-ai-to-rewrite-their-smart-tv-software-in-15-minutes-and-remove-all-the-bloatware/) | 20&nbsp;Oct |
 
 ## Online (newsletters, blogs, AI news)
 
@@ -211,9 +351,58 @@ Wrote about it and not here? Open an issue or a pull request with the link.
 | Nyongesa Sande | [People Are Using AI to Remove Smart TV Clutter and Take Back Their Home Screens](https://www.nyongesasande.com/ai-smart-tv-hacks-remove-ads-and-simplify-home-screens/) | 19&nbsp;Oct |
 | MiscW | [Clean Your TV: The GitHub Project Using Claude Code to Strip Smart TV Ads](https://www.miscw.com/clean-your-tv-the-github-project-using-claude-code-to-strip-smart-tv-ads-154800.html) | 20&nbsp;Oct |
 | MiscW | [What Is cleanyourtv? The AI Tool Stripping Ads From Smart TVs](https://www.miscw.com/what-is-cleanyourtv-the-ai-tool-stripping-ads-from-smart-tvs-154802.html) | 20&nbsp;Oct |
-| AwesomeFOSS (YouTube) | [CleanYourTV: 6,000 Stars in 3 Days to Kill Smart TV Ads](https://www.youtube.com/watch?v=-u2FuQZ9HsU) | 20&nbsp;Oct |
 | vc.ru (Aleksandr Biryukov) | [CleanYourTV — AI DIY проект, который убирает рекламу и стилизует вашу TV OS](https://vc.ru/id553757/3205401-cleanyourtv-proekt-dlya-udaleniya-reklamy-i-kustomizatsii-android-tv) | 20&nbsp;Oct |
-| Prism Labs (YouTube) | [CleanYourTV Strips Ads From 54 Smart TVs Free](https://www.youtube.com/watch?v=lHonkeutGvg) | 19&nbsp;Oct |
 | What People Made | [Vibe coded a new launcher for parents' Xiaomi TV, removing ads and bloat](https://www.whatpeoplemade.com/i/vibe-coded-a-new-launcher-for-parents-xiaomi-tv-removing-939102.html) | – |
+| BestForAndroid | [People Are Using AI to Remove Ads and Bloatware From Their Android TVs, Here's How](https://bestforandroid.com/radar/people-using-ai-remove-ads-bloatware-from-android-tv/) | 20&nbsp;Oct |
+| Jeff Bruchado | [tv-vibehack in 2026: How to Remove Ads From Your Android TV With ADB](https://jeffbruchado.com.br/en/blog/tv-vibehack-android-tv-no-ads-debloat-adb-2026) | 19&nbsp;Oct |
+| NextAiBreakout | [Claude Code Android TV Debloat: cleanyourtv Explained](https://nextaibreakout.com/blog/claude-code-android-tv-debloat/) | 19&nbsp;Oct |
+| Blockonomi | [Smart TV Owners Use Claude Code to Remove Ads and Tracking Software](https://blockonomi.com/smart-tv-owners-use-claude-code-to-remove-ads-and-tracking-software/) | 21&nbsp;Oct |
+
+## Videos
+
+On YouTube, newest first; views as of 23 Oct.
+
+| Channel | Video | Date | Views |
+| --- | --- | --- | --- |
+| NUANIA | [ทีวีช้า กระตุก? แก้ได้ด้วย AI &#124; Clean Your TV ปิดแอปขยะ Android TV ไม่ต้อง root](https://www.youtube.com/watch?v=Sh29R9v2G-4) | 22&nbsp;Oct | 1,438 |
+| AISeeKing | [People are using this Claude Code Repo to REVERSE ENGINEER Their Android TVs!](https://www.youtube.com/watch?v=XuVY5cV7o1w) | 22&nbsp;Oct | 779 |
+| Tech Fire | [I Removed Every Ad From My TV With One AI Prompt](https://www.youtube.com/watch?v=MFY88kCiUNI) | 22&nbsp;Oct | 392 |
+| Repo_AI_Review | [CleanYourTV: 22K Stars Insane Apple TV Hack [2026]](https://www.youtube.com/watch?v=BhguEwXKOyE) | 22&nbsp;Oct | 128 |
+| Simply AI | [Claude Code Wrote This Android TV a New Home Screen With No Ads](https://www.youtube.com/watch?v=NIp4iX7kipw) | 22&nbsp;Oct | 119 |
+| AI Inside | [AI Agents Are Stripping Advertising From Smart TVs](https://www.youtube.com/watch?v=vUfdRl6ASYY) | 22&nbsp;Oct | 58 |
+| 机器之心 | [Github 1.3万星！AI 干掉电视广告，秒变干净苹果风](https://www.youtube.com/watch?v=Z04OH8aEZYc) | 22&nbsp;Oct | 57 |
+| LookOnThisGit | [Debloat Your TV: Get an Apple TV UI on Android 📺](https://www.youtube.com/watch?v=Bvivx5aBStg) | 22&nbsp;Oct | 28 |
+| DY Playbook | [How to Remove Ads From Your Smart TV With AI](https://www.youtube.com/watch?v=WPPJ3H4OtYg) | 22&nbsp;Oct | 20 |
+| Bryam CIO (bbuestan) | [Smart TV: la IA le QUITA los anuncios en 15 min](https://www.youtube.com/watch?v=wg0N8AkK_Zg) | 22&nbsp;Oct | 6 |
+| Github Trends | [Turn Any Android TV Into an Apple TV Style Home Over Wi-Fi: cleanyourtv Deep Dive](https://www.youtube.com/watch?v=apE40gXzz2A) | 22&nbsp;Oct | 1 |
+| Lukas Margerie | [I Gave Claude Code Control of My TV](https://www.youtube.com/watch?v=i0ytu6k8uac) | 21&nbsp;Oct | 85,578 |
+| n8nWithPatrick | [CleanYourTV: Debloat Any Android TV With One Prompt (16.5k Stars)](https://www.youtube.com/watch?v=UjJwamPBEAg) | 21&nbsp;Oct | 2,245 |
+| Barely Bullish | [Your TV Is Cheap Because of Ads. Claude Code Turns Them Off.](https://www.youtube.com/watch?v=yvg55BfTT9Y) | 21&nbsp;Oct | 73 |
+| Farid Talks AI & Tech | [His Parents' TV Showed an Ad Before Netflix. So He Let Claude In.](https://www.youtube.com/watch?v=kMRHnluPZds) | 21&nbsp;Oct | 58 |
+| No Humans Needed | [[EN 10/21] Killing TV ads with Claude Code: 11.9K stars &#124; AI in the Field · Nohumans, Oct 21, 2026](https://www.youtube.com/watch?v=mYdDj3tXqFA) | 21&nbsp;Oct | 38 |
+| The Agent Workshop | [I Removed Every Ad From My Smart TV With AI (No Root)](https://www.youtube.com/watch?v=GVRMF4pULVk) | 21&nbsp;Oct | 36 |
+| syahdandev | [Orang Ramai Suruh Claude Code Buang Iklan dari Smart TV, Ribuan Ikut Coba](https://www.youtube.com/watch?v=dinwm7aYehQ) | 21&nbsp;Oct | 22 |
+| atyourfingertips | [Your TV Is Watching You. So People Got AI to Fight Back.](https://www.youtube.com/watch?v=DQPSM5gK2TU) | 21&nbsp;Oct | 21 |
+| Repo Rush | [10 New GitHub Repos You Should Know (An AI Uses a Real iPhone & More)](https://www.youtube.com/watch?v=KYk-cKF1g6Y) | 21&nbsp;Oct | 20 |
+| 人間不要新聞 | [【現場10/21】テレビの広告をClaude Codeで消すの、3日半でスター1.19万｜AIの現場 2026年10月21日](https://www.youtube.com/watch?v=JCBI-WfWBpU) | 21&nbsp;Oct | 12 |
+| Нейро-Радио | [Нейро-Радио, 21 октября: Claude придумал белки против яда скорпиона](https://www.youtube.com/watch?v=r__WxDOVjmM) | 21&nbsp;Oct | 2 |
+| Navy Geeks | [I Removed Every Ad From My Google TV using Claude and No Root](https://www.youtube.com/watch?v=dpOjBS1FAxg) | 20&nbsp;Oct | 141,757 |
+| AwesomeFOSS | [CleanYourTV: 6,000 Stars in 3 Days to Kill Smart TV Ads](https://www.youtube.com/watch?v=-u2FuQZ9HsU) | 20&nbsp;Oct | 9,983 |
+| Prism Labs | [CleanYourTV Strips Ads From 54 Smart TVs Free](https://www.youtube.com/watch?v=lHonkeutGvg) | 20&nbsp;Oct | 5,291 |
+| I HAVE ADHD AND FOMO | [GPT-6 COBOL Migration, DeepSeek DeepInfer & CleanYourTV &#124; AX Trend Deep Dive](https://www.youtube.com/watch?v=NZiuLXyLwWQ) | 20&nbsp;Oct | 151 |
+| AI&Other-Tech | [People Are Using AI to Make Their Smart TVs Dumb Again](https://www.youtube.com/watch?v=dGAoxdpJ6ik) | 20&nbsp;Oct | 151 |
+| The Output | [People Are Using AI Agents to Make Their Smart TVs Dumb Again. Your TV Already Has a Safer Switch](https://www.youtube.com/watch?v=7YJC7yb4GVY) | 20&nbsp;Oct | 148 |
+| Gcode | [Mi TV Makeover: No Ads, Custom Home Screen & Live Screensavers](https://www.youtube.com/watch?v=NyLS0_wmsOs) | 20&nbsp;Oct | 91 |
+| Ray Wang | [电视首页全是广告？一句话让 AI 帮你关掉（不卸载、随时还原）](https://www.youtube.com/watch?v=ky-x7RSKXEA) | 20&nbsp;Oct | 71 |
+| Dev4Code | [Android ADB Wireless Pairing Explained](https://www.youtube.com/watch?v=w6z_NKvI8T0) | 20&nbsp;Oct | 13 |
+| Syntax | [Everyone is hacking their TV ⟡ VoidZero Framework Open Sourced ⟡ OpenCode Hacked ⌁ Syntax Weekly ⌁](https://www.youtube.com/watch?v=qKyFi6j1XpA) | 19&nbsp;Oct | 77,341 |
+| TechCodeRealm | [AI Is Removing Ads From Smart TVs! 📺 Make Android TV Faster & Cleaner](https://www.youtube.com/watch?v=LIV9FPkJO3U) | 19&nbsp;Oct | 14,541 |
+| shang peng | [1. 智能电视开机广告多？免拆机改Apple TV极简纯黑桌面开源工具 &#124; CleanYourTV Open Source](https://www.youtube.com/watch?v=ca8Jepqhahs) | 19&nbsp;Oct | 2,431 |
+| Next Token | [Meta's 816B Open Model vs DeepSeek: Same Score, 3.5× Cheaper &#124; Last Week in AI](https://www.youtube.com/watch?v=_hQsiqyk824) | 19&nbsp;Oct | 271 |
+| I HAVE ADHD AND FOMO | [Claude Code's Triple Play: Fork Subagents, TV Hacks, and a Public Benefit Fund &#124; AX Trend Deep Dive](https://www.youtube.com/watch?v=Fq4WBSDFOy4) | 19&nbsp;Oct | 69 |
+| Games I Played | [Gaming News Malayalam Episode 3](https://www.youtube.com/watch?v=PgvWUs6BRM0) | 19&nbsp;Oct | 26 |
+| TechPP | [How to debloat your Android TV with Claude Code](https://www.youtube.com/watch?v=YAaxqBvd1sY) | 18&nbsp;Oct | 94,226 |
+| Github Awesome | [GitHub Trending Weekly #54: git-ai, sill, Filee, Tracely-ai, Snitch, web-ocean, earshot, net-merge](https://www.youtube.com/watch?v=PYgTElh4CSk) | 18&nbsp;Oct | 12,207 |
+| Picoito | [An AI cleared the ads from his parents' Android TV](https://www.youtube.com/watch?v=_zB3OufofGE) | 18&nbsp;Oct | 3,715 |
 
 [Back to the README](../README.md)

diff --git a/README.md b/README.md
@@ -18,7 +18,7 @@
 </p>
 
 <p align="center">
-  <a href="docs/PRESS.md"><img src="docs/card.jpg" alt="232 TV models · 66 brands · 25 languages · 471 KB launcher. Featured in TechCrunch, TechRadar, Tom's Guide, Mashable, Android Authority, XDA, FlatpanelsHD, It's FOSS, Phandroid, GIGAZINE, Xataka, WinFuture, Frandroid, Macitynet, Techaeris, TechPP and 69 more: 85 articles from 23 countries. Before: stock Google TV home with a sponsored ad. After: the Clean Your TV launcher." width="800"></a>
+  <a href="docs/PRESS.md"><img src="docs/card.jpg" alt="232 TV models · 66 brands · 25 languages · 471 KB launcher. Featured in TechCrunch, TechRadar, Tom's Guide, Mashable, Android Authority, XDA, FlatpanelsHD, It's FOSS, Phandroid, GIGAZINE, Xataka, WinFuture, Frandroid, Macitynet, Techaeris, TechPP and 171 more: 187 articles from 31 countries. Before: stock Google TV home with a sponsored ad. After: the Clean Your TV launcher." width="800"></a>
 </p>
 
 **The viral tweet:** [x.com/gathint/status/2111379569030939102](https://x.com/gathint/status/2111379569030939102)
